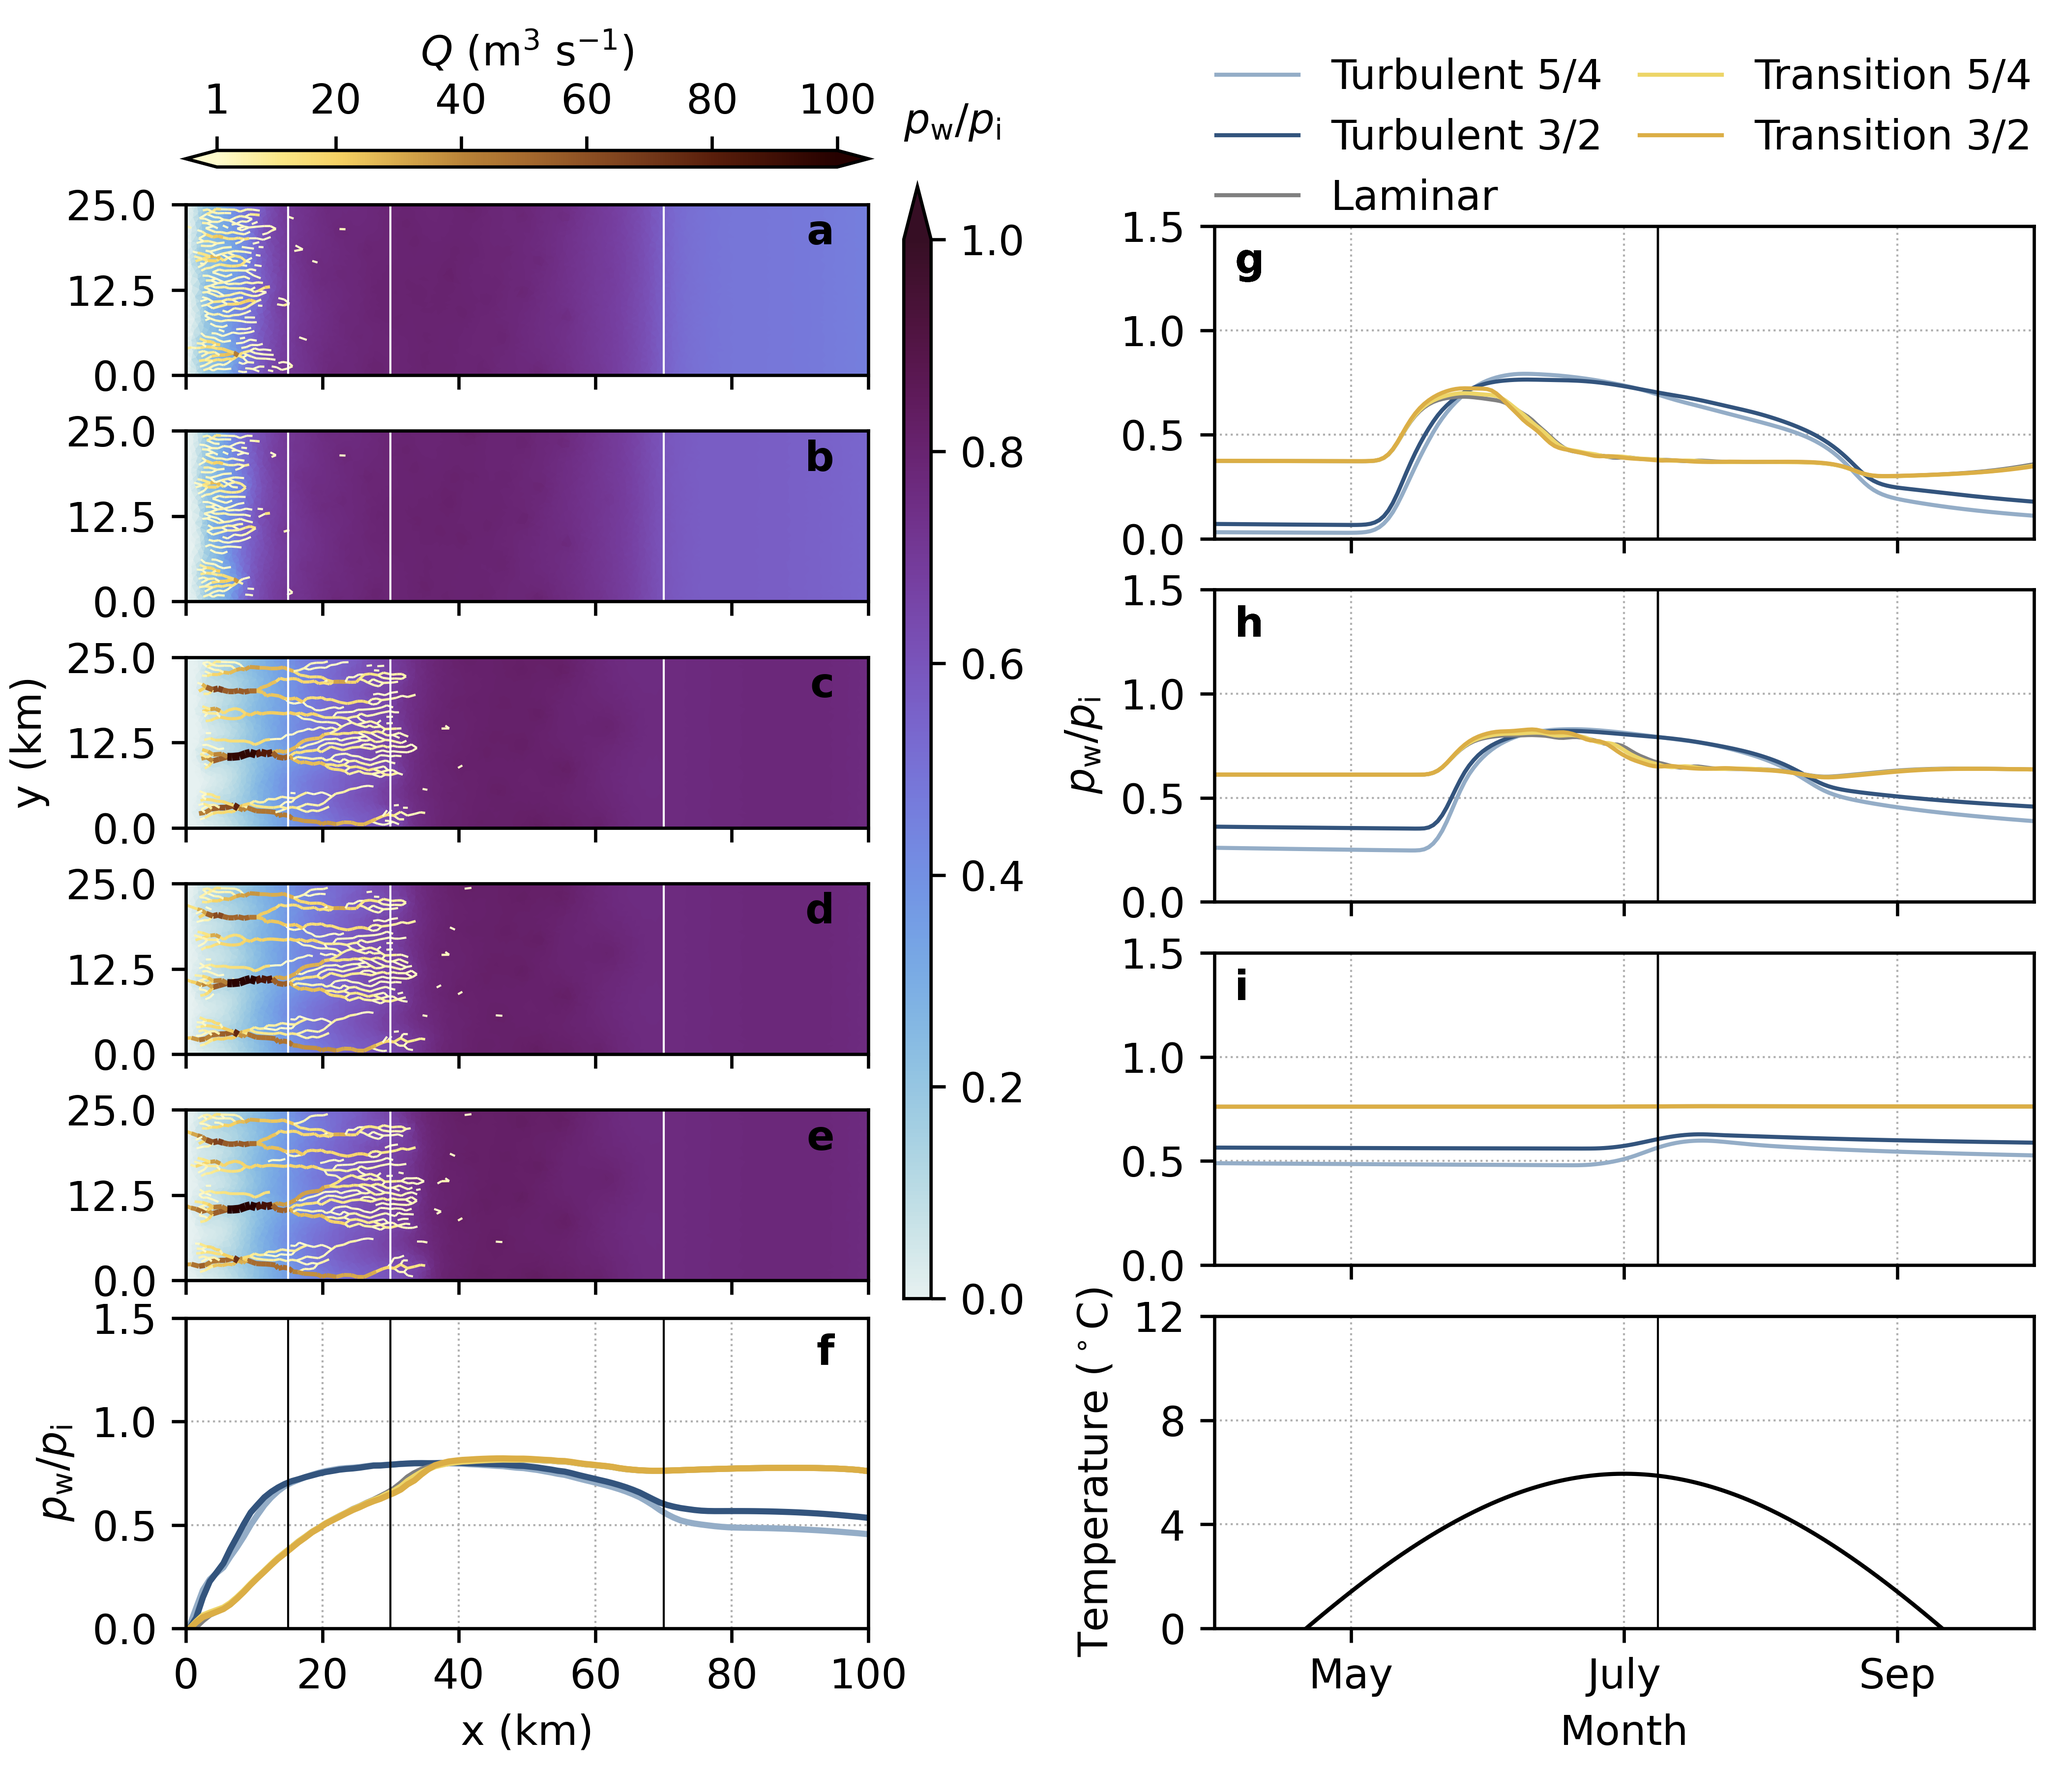
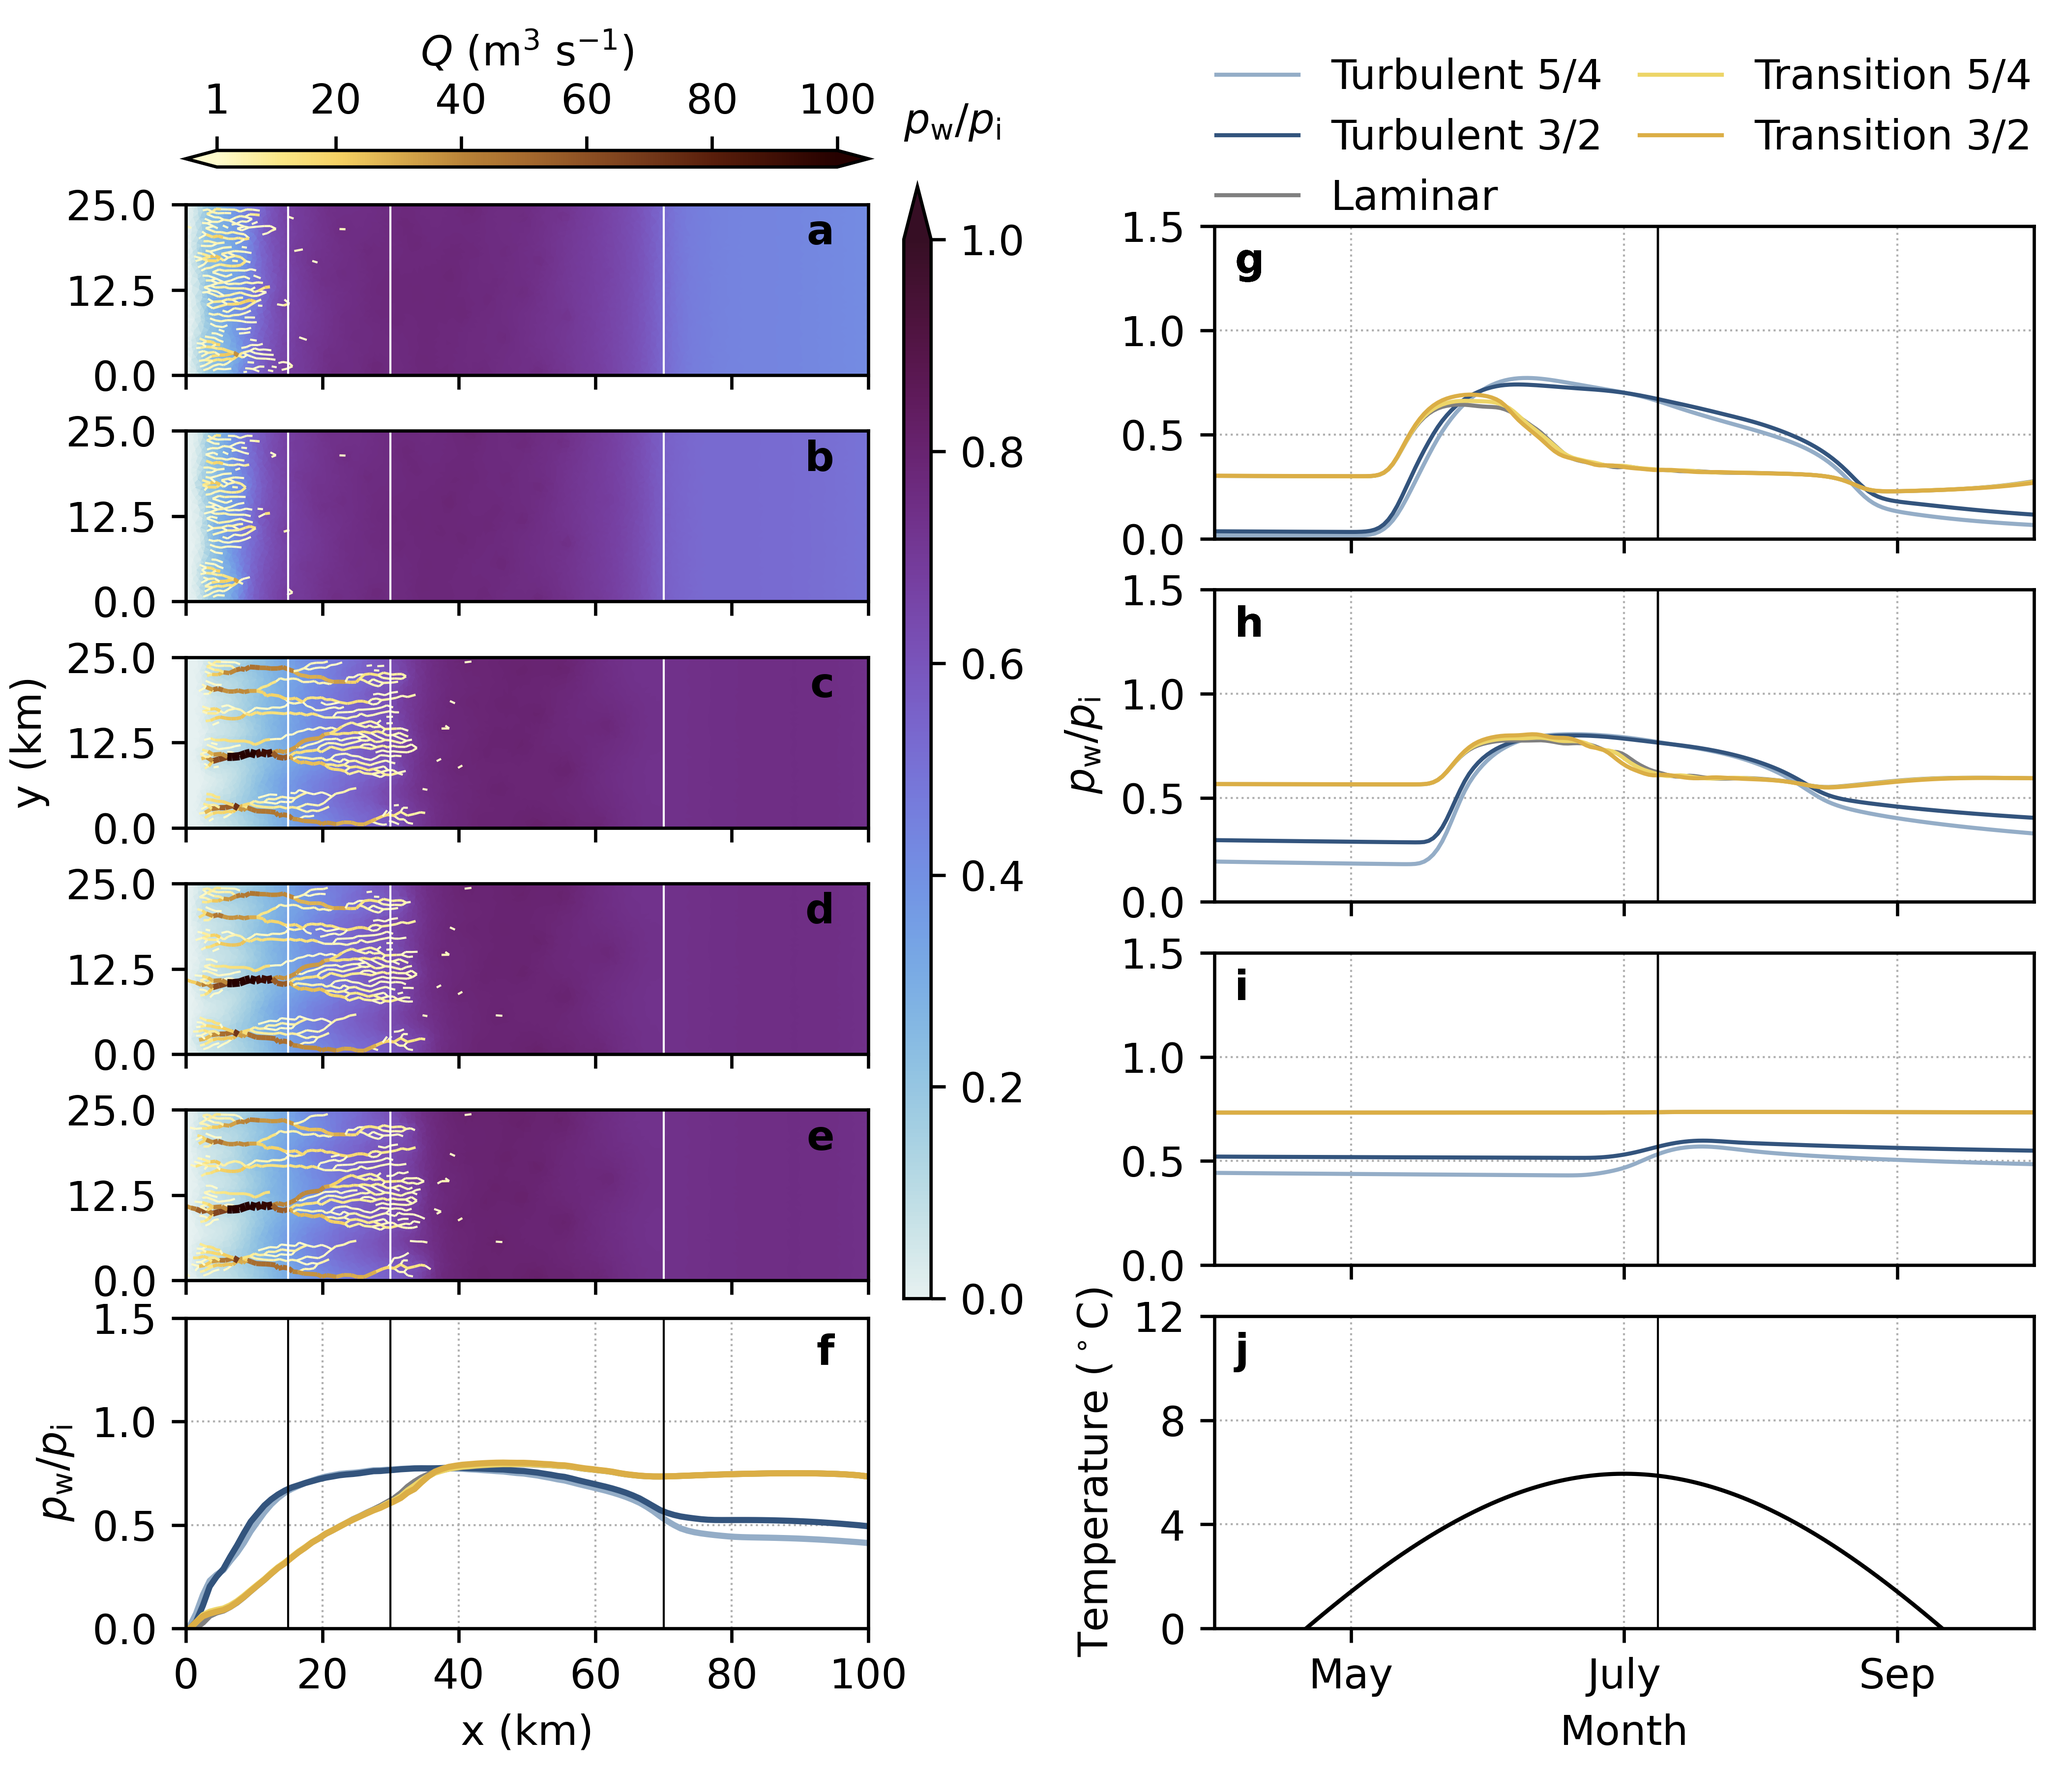
Add figs

diff --git a/analysis/make_pressure_figs.py b/analysis/make_pressure_figs.py
@@ -15,75 +15,84 @@ t_ticklabels = ['May', 'July', 'Sep', 'Nov']
 t_lim = [t_ticks[0], t_ticks[-1]]
 t_xlabel = 'Month'
 
-"""
-## Case 00: Flat topo, SHMIP forcing
+## Case 00: Flat topo, synthetic forcing
 cases = [1, 2, 3, 4, 5]
-fnames = ['../glads/00_shmip_forcing_shmip_topo/RUN/output_%03d_seasonal.nc'%caseid for caseid in cases]
-figname = '00_pressure_seasonal_SHMIP.png'
-fig_00 = plot_pressure_maps_timeseries(fnames, figname, melt_forcing='SHMIP', Qmin=10, Qmax=200,
-    t_ticklabels=t_ticklabels[:-1], t_xlabel=t_xlabel, t_ticks=t_ticks[:-1], t_lim=[1 + 3/12, 1 + 9/12])
-
-## Case 00.2: Flat topo, SHMIP forcing, consistent para
-cases = [201, 202, 203, 204, 205]
-fnames = ['../glads/00_shmip_forcing_shmip_topo/RUN/output_%03d_seasonal.nc'%caseid for caseid in cases]
-figname = '00_presure_seasonal_SHMIP_200.png'
-fig_00 = plot_pressure_maps_timeseries(fnames, figname, Qmin=10, Qmax=200, melt_forcing='SHMIP',
-    t_ticklabels=t_ticklabels[:-1], t_xlabel=t_xlabel, t_ticks=t_ticks[:-1], t_lim=[1 + 3/12, 1 + 9/12],
-    ff_ylim=[0,1.75], ff_yticks=[0, 0.5, 1, 1.5])
-
-
-## Case 00a: Flat topo, scaled SHMIP forcing
-cases = [1, 2, 3, 4, 5]
-fnames = ['../glads/00a_shimp_adj_forcing_shmip_topo/RUN/output_%03d_seasonal.nc'%caseid for caseid in cases]
+fnames = ['../glads/00_synth_forcing/RUN/output_%03d_seasonal.nc'%caseid for caseid in cases]
 figname = '00_pressure_seasonal.png'
-fig_00 = plot_pressure_maps_timeseries(fnames, figname, Qmin=1, Qmax=100, melt_forcing='SHMIPadj',
+fig_00 = plot_pressure_maps_timeseries(fnames, figname, melt_forcing='SHMIPadj', Qmin=1, Qmax=100,
     t_ticklabels=t_ticklabels[:-1], t_xlabel=t_xlabel, t_ticks=t_ticks[:-1], t_lim=[1 + 3/12, 1 + 9/12])
-"""
+
+## Case 00a: Flat topo, standard SHMIP forcing
+cases = [1, 2, 3, 4, 5]
+fnames = ['../glads/00a_shmip_forcing/RUN/output_%03d_seasonal.nc'%caseid for caseid in cases]
+figname = '00_pressure_seasonal_shmip_forcing.png'
+fig_00 = plot_pressure_maps_timeseries(fnames, figname, Qmin=10, Qmax=200, melt_forcing='SHMIP',
+    t_ticklabels=t_ticklabels[:-1], t_xlabel=t_xlabel, t_ticks=t_ticks[:-1], t_lim=[1 + 3/12, 1 + 9/12])
 
 ## Case 01: Flat topo, KAN_L forcing
-cases = [201, 202, 203, 204, 205]
-pattern = '../glads/01_kan_l_forcing_shmip_topo/RUN/output_%03d_seasonal.nc'
+cases = [1, 2, 3, 4, 5]
+pattern = '../glads/01_kan_forcing/RUN/output_%03d_seasonal.nc'
 fnames = [pattern % caseid for caseid in cases]
 figname = '01_pressure_seasonal.png'
 fig_01 = plot_pressure_maps_timeseries(fnames, figname, Qmin=1, Qmax=100, melt_forcing='KAN',
      t_ticklabels=t_ticklabels, t_xlabel=t_xlabel, t_ticks=t_ticks, t_lim=t_lim,
      ff_ylim=[0, 1.75], ff_yticks=[0, 0.5, 1, 1.5])
+
 """
-## Case 01b: Flat topo, KAN_L increased forcing
+## Case 01a: KAN increased forcing
 cases = [1, 2, 3, 4, 5]
-pattern = '../glads/01a_kan_adj_forcing_shmip_topo/RUN/output_%03d_seasonal.nc'
+pattern = '../glads/01a_kan_adj_forcing/RUN/output_%03d_seasonal.nc'
 fnames = [pattern % caseid for caseid in cases]
-figname ='01b_pressure_seasonal.png'
-fig_01 = plot_pressure_maps_timeseries(fnames, figname, Qmin=10, Qmax=200, melt_forcing='KAN',
+figname ='01a_pressure_seasonal.png'
+fig_01 = plot_pressure_maps_timeseries(fnames, figname, Qmin=10, Qmax=200, melt_forcing='KANadj',
      t_ticklabels=t_ticklabels, t_xlabel=t_xlabel, t_ticks=t_ticks, t_lim=t_lim,
      ff_ylim=[0, 1.75], ff_yticks=[0, 0.5, 1, 1.5])
 
-## Case 02a: Trough topo, SHMIP forcing
+## Case 01b: Flat topo, KAN_L forcing, reduced e_v
 cases = [1, 2, 3, 4, 5]
-pattern = '../glads/02a_shmip_forcing_valley_topo/RUN/output_%03d_seasonal.nc'
+pattern = '../glads/01b_kan_forcing_ev/RUN/output_%03d_seasonal.nc'
 fnames = [pattern % caseid for caseid in cases]
-figname = '02a_pressure_seasonal.png'
-fig_02 = plot_pressure_maps_timeseries(fnames, figname, Qmin=10, Qmax=100, melt_forcing='SHMIP',
+figname = '01b_pressure_seasonal_ev.png'
+fig_01 = plot_pressure_maps_timeseries(fnames, figname, Qmin=1, Qmax=100, melt_forcing='KAN',
+     t_ticklabels=t_ticklabels, t_xlabel=t_xlabel, t_ticks=t_ticks, t_lim=t_lim,
+     ff_ylim=[0, 1.75], ff_yticks=[0, 0.5, 1, 1.5])
+"""
+
+## Case 02a: Trough topo, synthetic forcing
+cases = [1, 2, 3, 4, 5]
+pattern = '../glads/02a_synth_forcing_trough/RUN/output_%03d_seasonal.nc'
+fnames = [pattern % caseid for caseid in cases]
+figname = '02a_pressure_seasonal_trough.png'
+fig_02 = plot_pressure_maps_timeseries(fnames, figname, Qmin=1, Qmax=100, melt_forcing='SHMIPadj',
     t_ticklabels=t_ticklabels[:-1], t_xlabel=t_xlabel, t_ticks=t_ticks[:-1], t_lim=[1+3/12, 1+9/12],
     ff_ylim=[0,1.75], ff_yticks=[0, 0.5, 1, 1.5])
 
-## Case 02: Valley topo, SHMIP forcing
+## Case 02b: Valley topo, synthetic
 cases = [1, 2, 3, 4, 5]
-pattern = '../glads/02a_shmip_forcing_valley_topo/RUN/output_%03d_seasonal.nc'
+pattern = '../glads/02b_synth_forcing_valley/RUN/output_%03d_seasonal.nc'
 fnames = [pattern % caseid for caseid in cases]
-figname = '02_pressure_seasonal_valley.png'
-fig_02 = plot_pressure_maps_timeseries(fnames, figname, Qmin=10, Qmax=200, melt_forcing='SHMIP',
+figname = '02b_pressure_seasonal_valley.png'
+fig_02 = plot_pressure_maps_timeseries(fnames, figname, Qmin=10, Qmax=200, melt_forcing='SHMIPadj',
     t_ticklabels=t_ticklabels[:-1], t_xlabel=t_xlabel, t_ticks=t_ticks[:-1], t_lim=[1+3/12, 1+9/12],
     ff_ylim=[0,1.75], ff_yticks=[0, 0.5, 1, 1.5])
 
 
-## Case 03: Trough topo, KAN_L forcing
-cases = [101, 102, 103, 104, 105]
-pattern = '../glads/03_kan_l_forcing_synth_topo/RUN/output_%03d_seasonal.nc'
+## Case 03a: Trough topo, KAN forcing
+cases = [1, 2, 3, 4, 5]
+pattern = '../glads/03a_kan_forcing_trough/RUN/output_%03d_seasonal.nc'
 fnames = [pattern % caseid for caseid in cases]
-figname = '03_pressure_seasonal.png'
+figname = '03a_pressure_seasonal_trough.png'
 fig_03 = plot_pressure_maps_timeseries(fnames, figname, Qmin=1, melt_forcing='KAN',
     t_ticklabels=t_ticklabels, t_xlabel=t_xlabel, t_ticks=t_ticks, t_lim=t_lim,
     ff_ylim=[0,1.75], ff_yticks=[0, 0.5, 1, 1.5])
-"""
-plt.show()
+
+## Case 03b: Valley topo, KAN forcing
+cases = [1, 2, 3, 4, 5]
+pattern = '../glads/03b_kan_forcing_valley/RUN/output_%03d_seasonal.nc'
+fnames = [pattern % caseid for caseid in cases]
+figname = '03b_pressure_seasonal_valley.png'
+fig_03 = plot_pressure_maps_timeseries(fnames, figname, Qmin=1, melt_forcing='KAN',
+    t_ticklabels=t_ticklabels, t_xlabel=t_xlabel, t_ticks=t_ticks, t_lim=t_lim,
+    ff_ylim=[0,1.75], ff_yticks=[0, 0.5, 1, 1.5])
+
+
